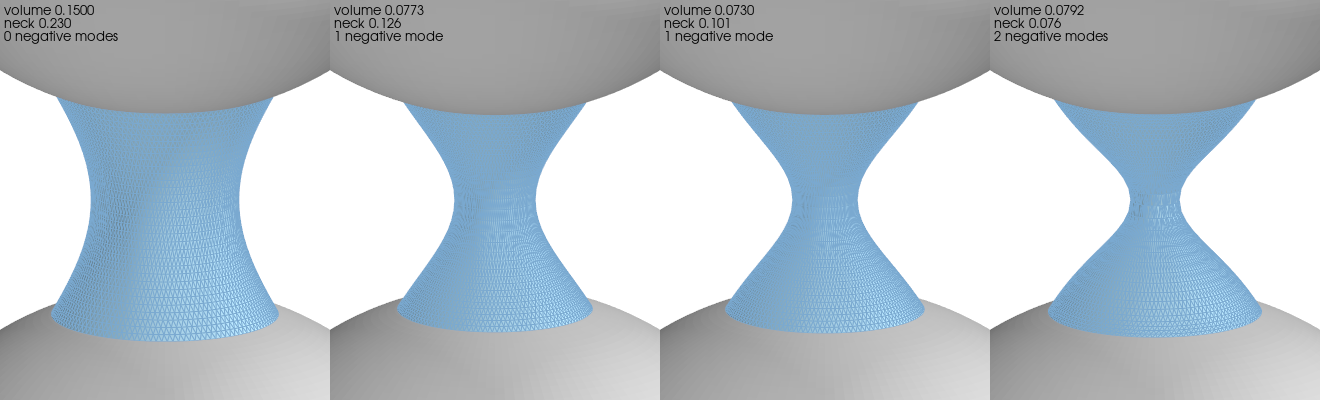
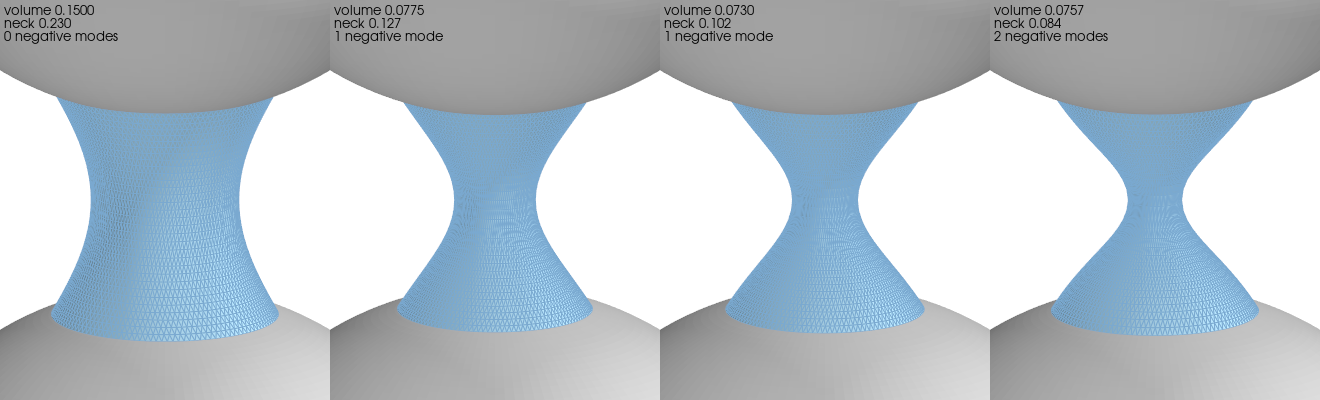
arclength(): the corrector's two Newton steps start from the same Lagrange multipliers and carry them with the vertices (Evolver's Newton step uses the pressures in its Hessian and updates them; the second step had started from the first one's, which made the change with the value several times too 
Claude-Session: https://claude.ai/code/session_01Kwrdj7nwy1jTuiKZ3FpBEY

diff --git a/python/pysurfaceevolver/recipes.py b/python/pysurfaceevolver/recipes.py
@@ -29,6 +29,8 @@ from typing import Any, Callable, Iterable, Iterator, List, Optional, Union
 
 import numpy as np
 
+from . import _core
+
 __all__ = ["Step", "arclength", "continuation", "load_steps"]
 
 
@@ -287,16 +289,17 @@ def _hessian(ev) -> None:
         ev.command("hessian")
 
 
-def _newton_target(ev, put: Callable[[Any], None], value: float) -> "tuple[np.ndarray, int]":
-    """Where one plain Newton step at ``value`` takes the vertices (undone),
-    and the negative eigenvalues it counted."""
+def _newton_target(ev, put: Callable[[Any], None],
+                   value: float) -> "tuple[np.ndarray, np.ndarray]":
+    """Where one plain Newton step at ``value`` takes the vertices and the
+    Lagrange multipliers (undone, both: the step's Hessian uses the
+    multipliers, so two steps from the same point need the same ones)."""
     put(value)
     start = ev._coords()
     _hessian(ev)
-    x = ev.vertices
-    negative = int(ev.eval("eigen_neg"))
+    x, multipliers = ev.vertices, np.asarray(_core.multipliers(), dtype=float)
     ev._put_back(start)
-    return x, negative
+    return x, multipliers
 
 
 def _normal_part(ev, dx: np.ndarray) -> np.ndarray:
@@ -328,15 +331,16 @@ def _arc_correct(ev, put, x_pred: np.ndarray, v_pred: float, tx: np.ndarray, tv:
     """Newton's method on the equilibrium and the plane through the
     prediction normal to the tangent: from one Newton step at the value and
     one at a nearby value, the step that is both (Keller's bordering, with
-    Evolver's factorization). Whether it converged, and the iterations."""
+    Evolver's factorization), for the vertices and the Lagrange multipliers
+    together. Whether it converged, and the iterations."""
     ev.vertices = x_pred
     value = v_pred
     n = len(x_pred)
     for it in range(1, max_iter + 1):
         x = ev.vertices
         delta = 1e-6*max(1.0, abs(value))
-        n0, _ = _newton_target(ev, put, value)
-        n1, _ = _newton_target(ev, put, value + delta)
+        n0, m0 = _newton_target(ev, put, value)
+        n1, m1 = _newton_target(ev, put, value + delta)
         dn = (n1 - n0)/delta
         # the new point n0 + dv*dn on the plane: tx.(x - x_pred)/n + tv*(v - v_pred) = 0
         gap = float((tx*(n0 - x_pred)).sum())/n + tv*(value - v_pred)
@@ -346,6 +350,7 @@ def _arc_correct(ev, put, x_pred: np.ndarray, v_pred: float, tx: np.ndarray, tv:
         value += dv
         put(value)
         ev.vertices = x_new
+        _core.set_multipliers(m0 + dv*(m1 - m0)/delta)
         if _arc_norm2(x_new - x, dv) < tol*tol and ev.residual() < tol:
             return True, it
     return False, max_iter

diff --git a/tools/bridge_rupture_figure.py b/tools/bridge_rupture_figure.py
@@ -52,7 +52,7 @@ def evolver_branch():
                    bodies=[pyse.Body(volume=0.15)])
     ev.relax(levels=3)
     rows, meshes, first_unstable = [], [], None
-    for step in recipes.arclength(ev, ev.body(1), -0.0075, 60):
+    for step in recipes.arclength(ev, ev.body(1), -0.003, 100):
         m = ev.mesh()
         ring = m.slice((0, 0, 1))[0][:-1]
         rows.append((step.value, np.hypot(ring[:, 0], ring[:, 1]).mean(),
@@ -67,17 +67,6 @@ def evolver_branch():
     ev.saddle()
     mode = (m.vertices.copy(), m.facets.copy(), ev.mesh().vertices - m.vertices)
     return np.array(rows), meshes, mode
-
-
-def past_the_fold(tries=4):
-    """evolver_branch() until a run gets past the fold: at this refinement
-    arclength stops at the fold in about half the runs (its corrector converges
-    slowly there; which runs depends on the thread scheduling)."""
-    for _ in range(tries):
-        run = evolver_branch()
-        if run[0][-1, 2] == 2:
-            return run
-    return run
 
 
 def symmetric_family():
@@ -217,7 +206,7 @@ def main():
     branch = H.bridge_spheres_branch(GAP, THETA)
     sym = symmetric_family()
     off = offset_family(branch)
-    ev, meshes, mode = past_the_fold()
+    ev, meshes, mode = evolver_branch()
 
     fig, ((ax1, ax2), (ax3, ax4)) = plt.subplots(2, 2, figsize=(10, 7.6))
     # neck against volume: the symmetric branch and Evolver's points

diff --git a/bindings/pyse_api.c b/bindings/pyse_api.c
@@ -1675,6 +1675,32 @@ int pyse_torus(void) { return web.torus_flag; }
 int pyse_crystalline(void) { return web.wulff_flag; }
 int pyse_symmetry(void) { return web.torus_flag || web.symmetry_flag; }
 long pyse_topology_stamp(void) { return top_timestamp; }
+/* The Lagrange multipliers: each body's pressure (in body order), then each
+   quantity's (in quantity order). A Newton step (hessian) uses them in the
+   Hessian and adds its increments to them, so undoing a step undoes them too. */
+long pyse_multiplier_count(void)
+{ return pyse_count(PYSE_BODY) + gen_quant_count; }
+
+void pyse_get_multipliers(double *out, long n)
+{ body_id b_id;
+  long row = 0;
+  int i;
+  FOR_ALL_BODIES(b_id)
+    if ( row < n ) out[row++] = (double)get_body_pressure(b_id);
+  for ( i = 0 ; i < gen_quant_count && row < n ; i++ )
+    out[row++] = (double)GEN_QUANT(i)->pressure;
+}
+
+void pyse_set_multipliers(const double *in, long n)
+{ body_id b_id;
+  long row = 0;
+  int i;
+  FOR_ALL_BODIES(b_id)
+    if ( row < n ) set_body_pressure(b_id,(REAL)in[row++]);
+  for ( i = 0 ; i < gen_quant_count && row < n ; i++ )
+    GEN_QUANT(i)->pressure = (REAL)in[row++];
+}
+
 double pyse_total_energy(void) { return (double)web.total_energy; }
 double pyse_total_area(void) { return (double)web.total_area; }
 const char *pyse_datafilename(void) { return datafilename; }

diff --git a/bindings/module.cpp b/bindings/module.cpp
@@ -579,6 +579,20 @@ NB_MODULE(_core, m) {
   m.def("crystalline", []() { Lock lock; return bool(pyse_crystalline()); });
   m.def("symmetry", []() { Lock lock; return bool(pyse_symmetry()); });
   m.def("topology_stamp", []() { Lock lock; return pyse_topology_stamp(); });
+  m.def("multiplier_count", []() { Lock lock; return pyse_multiplier_count(); });
+  m.def("multipliers", []() {
+    Lock lock;
+    long n = pyse_multiplier_count();
+    std::vector<double> out(n);
+    pyse_get_multipliers(out.data(), n);
+    return to_numpy(std::move(out), {size_t(n)});
+  }, "the Lagrange multipliers: bodies' pressures, then quantities'");
+  m.def("set_multipliers", [](nb::ndarray<const double, nb::ndim<1>, nb::c_contig, nb::device::cpu> values) {
+    Lock lock;
+    if (long(values.shape(0)) != pyse_multiplier_count())
+      throw std::invalid_argument("set_multipliers: wrong number of multipliers");
+    pyse_set_multipliers(values.data(), long(values.shape(0)));
+  }, "values"_a);
   m.def("total_energy", []() { Lock lock; return pyse_total_energy(); });
   m.def("total_area", []() { Lock lock; return pyse_total_area(); });
   m.def("datafile", []() { Lock lock; return std::string(pyse_datafilename()); });

diff --git a/python/pysurfaceevolver/_relax.py b/python/pysurfaceevolver/_relax.py
@@ -660,7 +660,8 @@ class _Relaxing(_Analysis):
         that only move vertices."""
         _, result = self._call(_core.parameters)
         return _Coords(self.vertices, _core.topology_stamp(),
-                       tuple((name, value) for name, value, opt in result.data if opt))
+                       tuple((name, value) for name, value, opt in result.data if opt),
+                       np.asarray(_core.multipliers(), dtype=float))
 
     def _put_back(self, snapshot: "_Coords") -> bool:
         """Restore coordinates from :meth:`_coords`; False (and nothing done)
@@ -672,6 +673,9 @@ class _Relaxing(_Analysis):
         if snapshot.parameters:
             self.command("; ".join(f"{name} := {value!r}" for name, value in snapshot.parameters))
         self.vertices = snapshot.coords
+        if snapshot.multipliers is not None \
+                and len(snapshot.multipliers) == _core.multiplier_count():
+            _core.set_multipliers(snapshot.multipliers)
         return True
 
     def remesh(self, target: Optional[float] = None, *, max_edge: Optional[float] = None,

diff --git a/tests/test_arclength.py b/tests/test_arclength.py
@@ -82,6 +82,20 @@ def test_a_body_volume_as_the_value(cube):
     assert np.allclose(e/v**(2/3), e[0], rtol=2e-2)
 
 
+def test_newton_target_does_not_depend_on_the_last_one(cube):
+    # the corrector differences two Newton steps from one point; the second
+    # had started from the pressures the first left
+    cube.refine()
+    cube.relax()
+    put = lambda v: setattr(cube.body(1), "target", v)
+    cube.vertices = cube.vertices*1.05
+    first, p_first = recipes._newton_target(cube, put, 1.0)
+    again, p_again = recipes._newton_target(cube, put, 1.0)
+    # (2e-8 and 2e-5 apart before)
+    assert np.allclose(first, again, rtol=0, atol=1e-12)
+    assert np.allclose(p_first, p_again, rtol=0, atol=1e-12)
+
+
 def test_arclength_arguments(cube):
     with pytest.raises(ValueError):
         next(recipes.arclength(cube, cube.body(1), 0.0, 5))

diff --git a/tests/test_relax_models.py b/tests/test_relax_models.py
@@ -109,6 +109,19 @@ def test_put_back_refuses_a_changed_topology(cube):
     assert not cube._put_back(snap)
 
 
+def test_put_back_restores_the_pressures(cube):
+    # a Newton step uses the pressures in its Hessian and updates them:
+    # undoing it puts them back with the vertices
+    cube.relax(levels=1)
+    cube.body(1).target = 1.3
+    snap = cube._coords()
+    p0 = cube.bodies().pressure.copy()
+    cube.command("hessian")
+    assert not np.allclose(cube.bodies().pressure, p0)
+    assert cube._put_back(snap)
+    assert np.array_equal(cube.bodies().pressure, p0)
+
+
 def test_relax_with_autopop_keeps_the_surface(load):
     # autopop and autochop change the topology during gradient steps; undoing
     # by coordinates onto the new topology wrecked the foam (energy 15.8 -> 901)

diff --git a/bindings/pyse_api.h b/bindings/pyse_api.h
@@ -155,6 +155,11 @@ int pyse_crystalline(void);   /* a Wulff (crystalline) integrand is in use */
 int pyse_symmetry(void);      /* a torus or quotient space: coordinates are wrapped */
 /* goes up with every topology change (Evolver's top_timestamp) */
 long pyse_topology_stamp(void);
+/* the Lagrange multipliers: bodies' pressures, then quantities' (n must be
+   pyse_multiplier_count()) */
+long pyse_multiplier_count(void);
+void pyse_get_multipliers(double *out, long n);
+void pyse_set_multipliers(const double *in, long n);
 double pyse_total_energy(void);
 /* per vertex, the shape part of its velocity (projected force): along its
    normal(s), projected into its constraints; one per vertex in vertex order */

diff --git a/python/pysurfaceevolver/_results.py b/python/pysurfaceevolver/_results.py
@@ -19,6 +19,9 @@ class _Coords(NamedTuple):
     stamp: int                    # Evolver's topology stamp when taken
     # the optimizing parameters' values (steps move them with the vertices)
     parameters: Tuple[Tuple[str, float], ...] = ()
+    # the Lagrange multipliers (pressures): a Newton step uses them in its
+    # Hessian and moves them with the vertices
+    multipliers: Optional[np.ndarray] = None
 
 
 class EigenCounts(NamedTuple):

diff --git a/docs/bridge_rupture.md b/docs/bridge_rupture.md
@@ -53,7 +53,7 @@ def neck(ev):
 
 # shrink the bridge along its branch, through the fold, counting unstable modes
 rows, first_unstable = [], None
-for step in recipes.arclength(ev, ev.body(1), -0.0075, 40):
+for step in recipes.arclength(ev, ev.body(1), -0.003, 60):
     modes = step.result.negative_modes
     rows.append((step.value, neck(ev), modes))
     if modes == 1 and first_unstable is None:
@@ -73,22 +73,23 @@ ev.saddle()
 dx = ev.mesh().vertices - x
 phi = np.arctan2(x[:, 1], x[:, 0])
 outward = dx[:, 0]*np.cos(phi) + dx[:, 1]*np.sin(phi)       # the radial displacement
-heights = (-0.25, -0.15, -0.05, 0.05, 0.15, 0.25)
-moved = [outward[abs(x[:, 2] - z) < 0.05].mean() for z in heights]
-print("radial displacement at z =", " ".join(f"{z:+.2f}" for z in heights))
-print("  (scaled to 1 at the top): ", " ".join(f"{m/moved[-1]:+.2f}" for m in moved))
+heights = (0.05, 0.15, 0.25)
+up = [outward[abs(x[:, 2] - z) < 0.05].mean() for z in heights]
+down = [outward[abs(x[:, 2] + z) < 0.05].mean() for z in heights]
+odd = [(u - d)/2 for u, d in zip(up, down)]     # the part that flips sign across the mid-plane
+print("odd part of the radial displacement at z = 0.05 0.15 0.25:",
+      " ".join(f"{o/odd[-1]:.1f}" for o in odd))
 ```
 
 ```text
-stable down to volume 0.0795 (neck 0.1325), one negative mode from 0.0773 (neck 0.1261)
+stable down to volume 0.0792 (neck 0.1315), one negative mode from 0.0775 (neck 0.1266)
 least volume 0.0730
-radial displacement at z = -0.25 -0.15 -0.05 +0.05 +0.15 +0.25
-  (scaled to 1 at the top):  -1.06 -0.99 -0.52 +0.45 +0.93 +1.00
+odd part of the radial displacement at z = 0.05 0.15 0.25: 0.4 0.9 1.0
 ```
 
-The bridge turns unstable between volumes 0.0795 and 0.0773, while it still has a
+The bridge turns unstable between volumes 0.0792 and 0.0775, while it still has a
 volume to lose before the fold at 0.0730. Past the fold a second negative mode
-appears, the fold's own. The run takes about half a minute on two threads.
+appears, the fold's own. The run takes about 20 seconds on two threads.
 
 ```{figure} _static/bridge_rupture_shapes.png
 :alt: The bridge at four points of the run: at the start, at the first unstable point, at the fold, and past the fold
@@ -99,16 +100,11 @@ at the fold (the least volume), and past it on the thinner-necked branch, where 
 fold's own mode has made a second one.
 ```
 
-At this refinement (8192 facets) `arclength` stops at the fold, with a warning, in
-about half the runs: its corrector converges slowly there, and which runs stop
-depends on how the threads share out the work. The code above reports what the run
-reached, which is the same either way. The pictures come from a run that got past
-the fold.
-
 {meth}`~pysurfaceevolver.Evolver.saddle` steps along the first unstable mode. The
 mode is odd about the mid-plane: the bridge narrows on one side of it and widens on
 the other, so liquid moves toward one sphere. Which sphere is chance (the mode's
-sign is arbitrary).
+sign is arbitrary). The code prints the step's odd part: holding the volume during
+a finite step adds a small even part, a few percent of it.
 
 ```{figure} _static/bridge_rupture_mode.png
 :alt: The first unstable bridge coloured by its unstable mode, and the bridge pushed along the mode
@@ -163,7 +159,7 @@ neck 0.10 above the mid-plane: volume 0.0978, energy 0.60638, 4.81e-03 above the
 ```
 
 The off-centre bridges branch off at volume 0.07895, between the last stable point of
-the run above (0.0795) and the first unstable one (0.0773). The fold is at 0.07307,
+the run above (0.0792) and the first unstable one (0.0775). The fold is at 0.07307,
 where the run's least volume is 0.0730. On a mesh refined once more (32768 facets),
 the onset lies between 0.0808 and 0.0785 and the least volume is 0.07306.
 

diff --git a/CHANGELOG.md b/CHANGELOG.md
@@ -43,10 +43,17 @@
   energies, and finds one negative mode from a neck of about 0.13 (V 0.08), before the
   fold, steady under refinement: an axisymmetric mode odd about the mid-plane (Vogel's
   small volume instability; see "Where a shrinking bridge breaks" below); following it
-  with `saddle()` lowers the energy. Refined three times (8192 facets) it stops at that
-  fold, with a warning, in about half the runs (4 of 8): its corrector converges
-  slowly near the fold, and which runs stop depends on the thread scheduling. Stops with a warning when a step fails after
+  with `saddle()` lowers the energy. Stops with a warning when a step fails after
   halving or the mesh degenerates.
+  The two Newton steps of each iteration start from the same Lagrange multipliers
+  (pressures), and the corrector carries them along with the vertices: Evolver's Newton
+  step uses them in its Hessian and updates them, so the second step had started from
+  the first one's, and away from an equilibrium the change with the value came out
+  several times too large. The corrector had then converged slowly or not at all, and
+  the bridge above (8192 facets) stopped at its fold in about half the runs; now each
+  point takes 3-5 iterations at the full `ds` and 8 of 8 runs pass the fold, in 7 s
+  instead of about 30. Undoing a step (in `relax()` too) puts the multipliers back with
+  the vertices; the stress cases come out as before.
 
 - `continuation()` predicts each step: from the third step on, relax starts from every
   vertex extrapolated from the last two steps (a secant predictor), which saves a fifth
@@ -83,8 +90,7 @@
   (`bridge_spheres_fold`, `bridge_spheres_branch`, `bridge_spheres_offset`), a figure
   drawn by `tools/bridge_rupture_figure.py` along with pictures of the bridge along
   the run, its unstable mode and the off-centre bridge in 3D, and the page's code
-  checked by `tools/check_doc_snippets.py` (its output is the same whether or not the
-  run gets past the fold).
+  checked by `tools/check_doc_snippets.py`.
 
 - A shorter README (92 lines, was 261): what pySE is, a picture of four relaxed
   surfaces, install, one example with its output, and where to read on, with badges.
